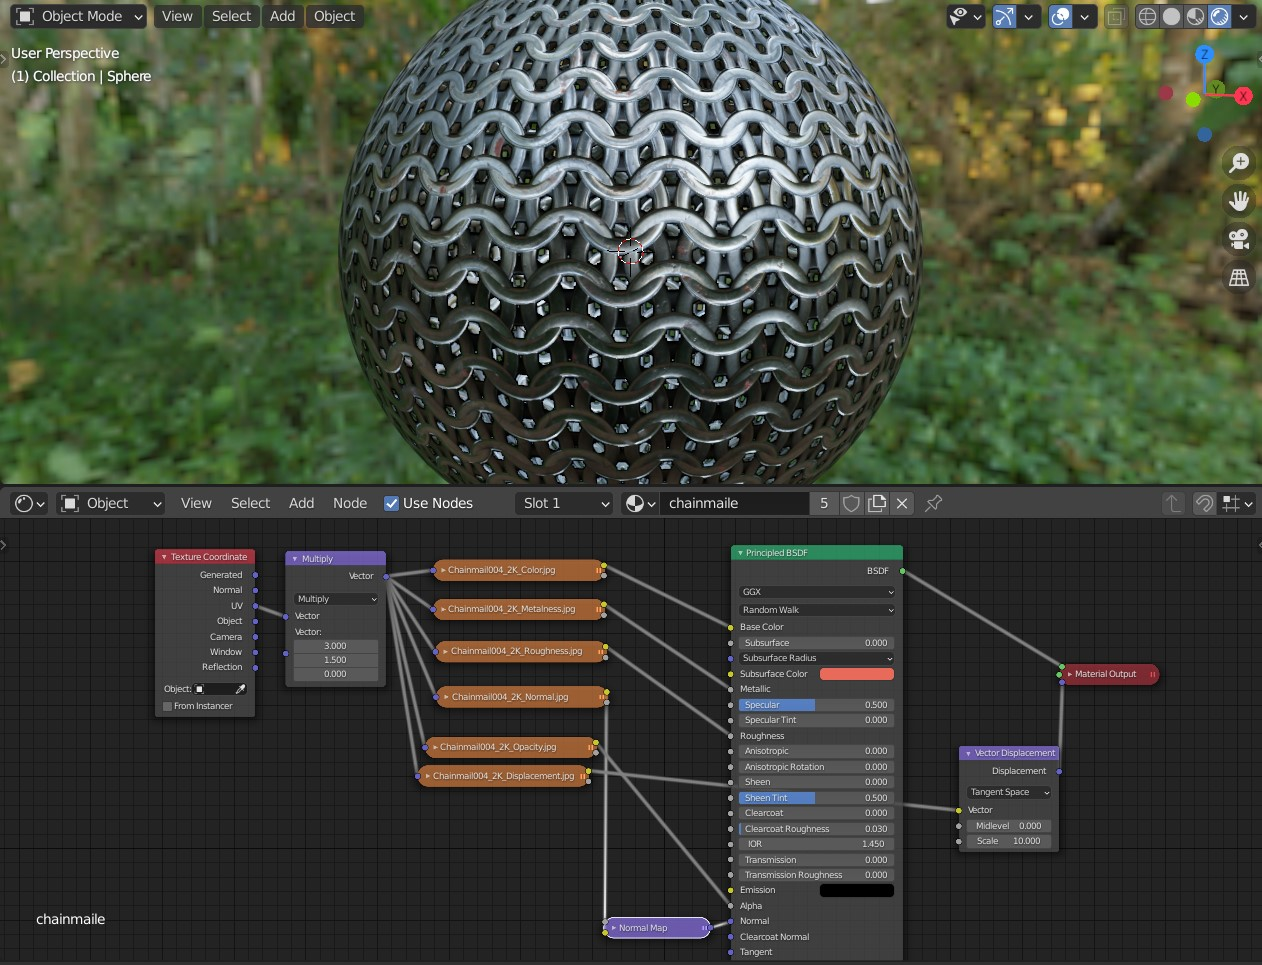
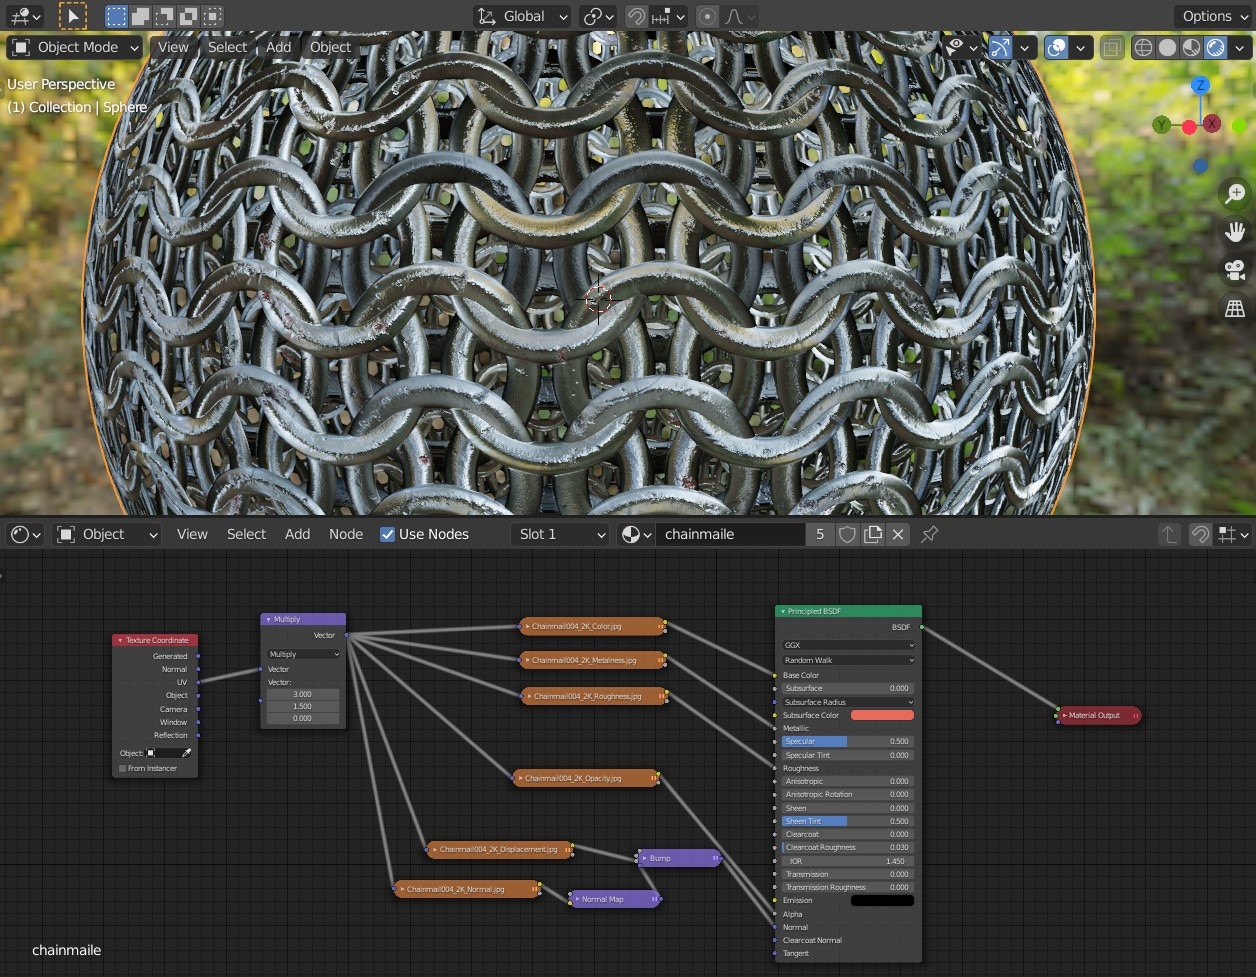
fix bad render

diff --git a/05 - texturing/02_prinicpled_bsdf_material.md b/05 - texturing/02_prinicpled_bsdf_material.md
@@ -119,24 +119,26 @@ Grayscale (usualy binary) map that provides information where is the material me
 
 ![](chainmail/Chainmail004_2K_Metalness.jpg)
 
-### Roughness
+### Roughness (Microsurface)
 
 Greyscale, encodes reflectivity, as discussed above. Plugs in the *Roughness*.
 ![](chainmail/Chainmail004_2K_Roughness.jpg)
 
 ### Normal
-Distinctly looking two-color map, encodes height differences on the material. Plugs in the *Normal*, through the *Normal Map* node, where you can adjust *Strength* to your liking. 
+Distinctly looking two-color map, encodes height differences on the material. Plugs in the *Normal*, through the *Color* input of *Normal Map* node where you can adjust *Strength* to your liking. 
 
 ![](chainmail/Chainmail004_2K_Normal.jpg)
 
 
-### Opacity
-Encodes visibility. It's a grayscale map, usualy binary. In this case it carves the free space between the individual rings. If using *Eevee*, make sure you have alpha blending enabled in the material properties -> *Settings* -> *Blend Mode* to *Alpha Clip* or *Alpha Blend*.  
+### Opacity (Alpha, Transparency)
+Encodes transparency. It's a grayscale map, usualy binary. In this case it carves the free space between the individual rings. If using *Eevee*, make sure you have alpha blending enabled in the material properties -> *Settings* -> *Blend Mode* to *Alpha Clip* or *Alpha Blend*.  
 
 ![](chainmail/Chainmail004_2K_Opacity.jpg)
 
-### Displacment
+### Displacment (Bump, Height)
 Coarser height informaiton. Greyscale. Plugs in the *Material Ouput* node's *Displacment*. You need to pass it through *Vector Displacment* node first.  Works only in *Cycles*.
+
+Alternatively, create a *Bump* node, plug the *Normal map* in the *Normal*, and this texture in the *Height*. This works also in Eevee.
 
 ![](chainmail/Chainmail004_2K_Displacement.jpg)
 
@@ -149,8 +151,10 @@ Irellevant for Blender and other modeling software, used mostly in games. Blende
 Assinges color to different parts of the texture (i.e. to differentiante materials, individual bricks of brick texture, individual wires of chainmail...)
 
 #### Fuzz:
-Map used to make 'hairy' fabric more realistic. Currently not implemented in Blender.
+Map used to make 'hairy' fabric more realistic. Currently not implemented in Blender - you might find a node network on the internet, however.
 
+#### Anisotropic, subdermal, wrinkle, radiosity...:
+If you encouter them, google is your friend :)
 
 ## Final touches
 You can adjust the scale of every texture at once using this: add *Texture Coordinate* node, *Vector Math* node, connect *UV* output to the *Vector Math* input, set to *Multiply* and adjust scale in the other vector. Plug the output of the *Vector Math* to the *Vector* input of every texture.
@@ -159,6 +163,7 @@ Use nodes in the *Color* category to adjust brightness, contrast, ...
 
 Don't forget to add HDRI.
 
+Don't forget most of the textures need to be in *Non-Color* *Color mode*.
 
 Final result on a *UV Sphere*:
 ![](images/Applied.jpg)
